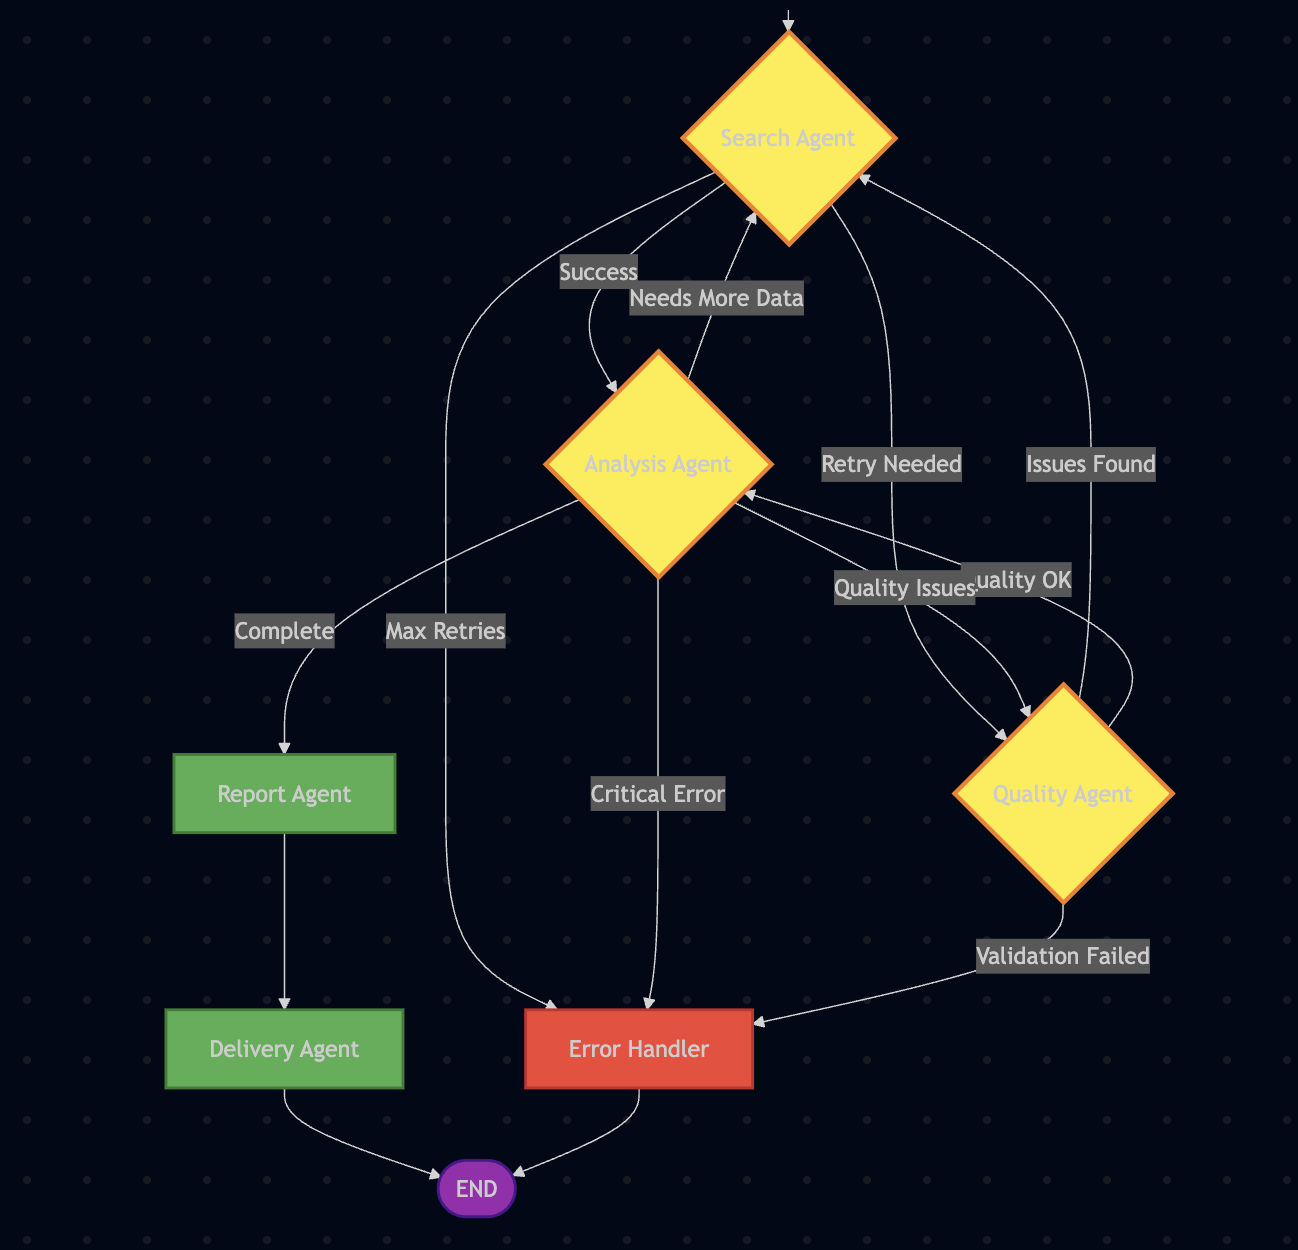
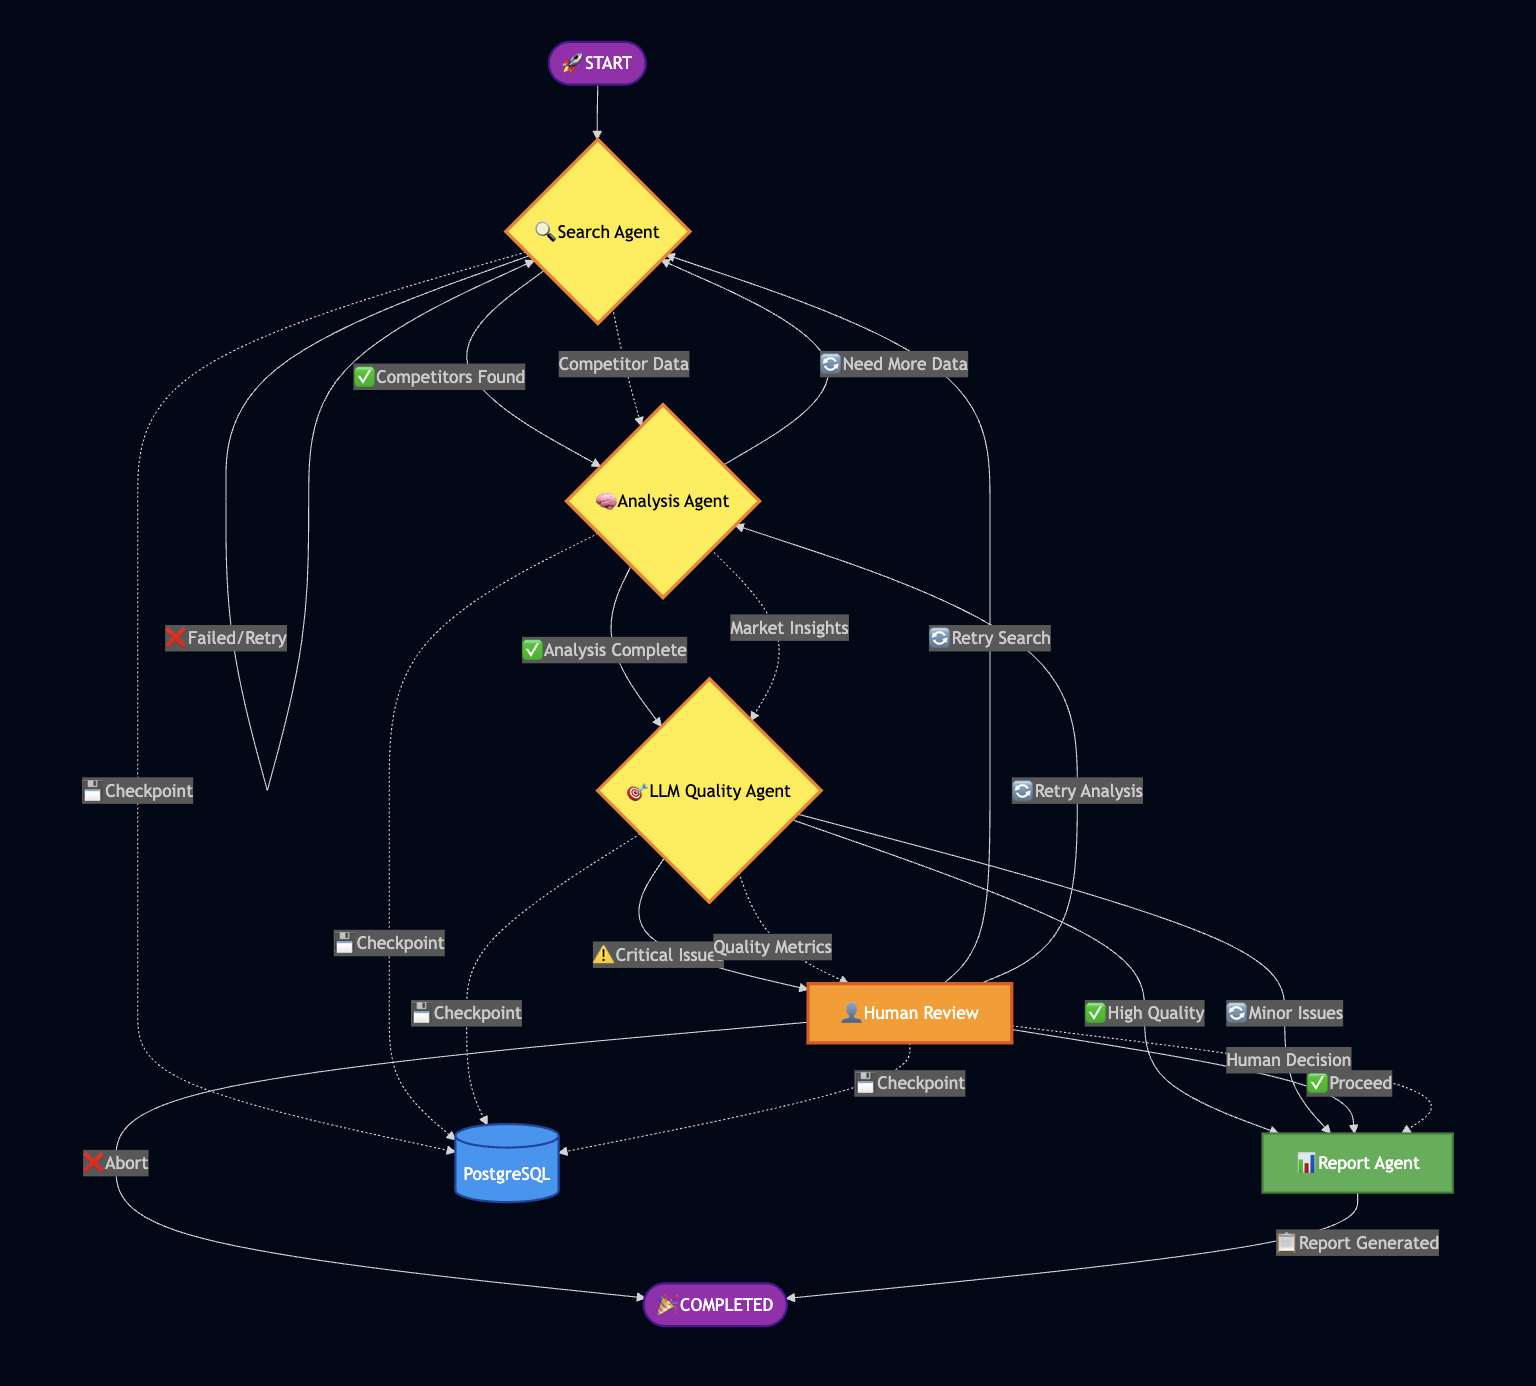
improved documentation

diff --git a/HUMAN_REVIEW.md b/HUMAN_REVIEW.md
@@ -1,0 +1,284 @@
+# Human Review System Documentation
+
+## Overview
+
+The Competitor Analysis System includes a sophisticated human review workflow built on LangGraph's persistent interrupts feature. This allows analyses to pause for human decisions and resume exactly where they left off.
+
+## Architecture
+
+### LangGraph Integration
+- **Persistent Checkpoints**: PostgreSQL-backed checkpoints store workflow state
+- **Conditional Routing**: Smart workflow routing based on quality issues
+- **Resumable Interrupts**: Analyses can be paused and resumed without data loss
+
+### Quality-Driven Interrupts
+The system automatically triggers human review when:
+- Critical data quality issues are detected
+- Competitor relevance scores are below threshold
+- Analysis confidence is low
+- Retry limits are reached without success
+
+## Workflow States
+
+### 1. Normal Flow (No Human Review)
+```
+Search → Analysis → Quality Check → Report → Complete
+```
+
+### 2. Human Review Flow
+```
+Search → Analysis → Quality Check → [INTERRUPT] → Human Review → Report → Complete
+```
+
+### 3. Retry Flow (After Human Decision)
+```
+Human Review → [Retry Search] → Search → Analysis → Quality Check → Report → Complete
+                     OR
+Human Review → [Retry Analysis] → Analysis → Quality Check → Report → Complete
+                     OR
+Human Review → [Proceed] → Report → Complete
+```
+
+## API Endpoints
+
+### Get Quality Review Data
+```http
+GET /api/v1/analysis/{request_id}/quality-review
+```
+Returns quality issues requiring human review.
+
+**Response:**
+```json
+{
+  "request_id": "string",
+  "quality_issues": [
+    {
+      "type": "competitor_relevance",
+      "severity": "high",
+      "description": "Competitor X appears irrelevant to client industry",
+      "affected_item": "Competitor X",
+      "confidence": 0.3
+    }
+  ],
+  "quality_summary": {
+    "total_issues": 5,
+    "critical_issues": 2,
+    "average_quality": 0.7,
+    "analysis_completed": true
+  },
+  "available_actions": [
+    {"id": "proceed", "label": "Proceed with current results"},
+    {"id": "retry_search", "label": "Retry search"},
+    {"id": "retry_analysis", "label": "Retry analysis"}
+  ]
+}
+```
+
+### Submit Human Decision
+```http
+POST /api/v1/analysis/{request_id}/human-decision
+```
+
+**Request Body:**
+```json
+{
+  "decision": "proceed|retry_search|retry_analysis|abort",
+  "feedback": "Optional human feedback",
+  "modified_params": {
+    "max_competitors": 5,
+    "industry_focus": "Updated focus"
+  },
+  "selected_issues": ["issue_id_1", "issue_id_2"]
+}
+```
+
+**Response:**
+```json
+{
+  "message": "Decision recorded successfully",
+  "request_id": "string",
+  "decision": "proceed",
+  "workflow_resumed": true
+}
+```
+
+### Check Interrupt Status
+```http
+GET /api/v1/analysis/{request_id}/interrupt-status
+```
+
+**Response:**
+```json
+{
+  "request_id": "string",
+  "is_interrupted": true,
+  "interrupted_before": "human_review",
+  "awaiting_human_review": true,
+  "current_stage": "human_review",
+  "progress": 75,
+  "status": "in_progress"
+}
+```
+
+### Get Quality Issues
+```http
+GET /api/v1/analysis/{request_id}/quality-issues
+```
+Returns detailed quality issues for human review.
+
+## Frontend Integration
+
+### Human Review UI Components
+
+#### 1. Quality Issues Display
+```typescript
+interface QualityIssue {
+  type: 'competitor_relevance' | 'data_quality' | 'analysis_confidence';
+  severity: 'low' | 'medium' | 'high' | 'critical';
+  description: string;
+  affected_item: string;
+  confidence: number;
+  suggestion?: string;
+}
+```
+
+#### 2. Decision Interface
+```typescript
+interface HumanDecision {
+  decision: 'proceed' | 'retry_search' | 'retry_analysis' | 'abort';
+  feedback?: string;
+  modified_params?: Record<string, any>;
+  selected_issues?: string[];
+}
+```
+
+#### 3. Review Dashboard
+- **Quality Score Visualization**: Charts showing quality metrics
+- **Issue Categorization**: Grouped by severity and type
+- **Competitor Relevance**: Visual indicator of relevance scores
+- **Action Buttons**: Clear options for human decisions
+- **Progress Tracking**: Real-time workflow progress
+
+### WebSocket Updates
+The system provides real-time updates via WebSocket:
+```typescript
+// Subscribe to analysis updates
+const ws = new WebSocket(`ws://localhost:8000/ws/analysis/${analysisId}`);
+
+ws.onmessage = (event) => {
+  const update = JSON.parse(event.data);
+  if (update.stage === 'human_review') {
+    // Show human review interface
+    showHumanReviewModal(update.data);
+  }
+};
+```
+
+## Configuration
+
+### Quality Thresholds
+```python
+# In backend/config/quality_config.py
+QUALITY_THRESHOLDS = {
+    'competitor_relevance': 0.7,
+    'data_completeness': 0.8,
+    'analysis_confidence': 0.6,
+    'market_data_freshness': 0.9
+}
+
+HUMAN_REVIEW_TRIGGERS = {
+    'critical_issues_count': 2,
+    'low_quality_percentage': 0.4,
+    'retry_limit_reached': True
+}
+```
+
+## Error Handling
+
+### Common Issues and Solutions
+
+#### 1. Checkpoint Not Found
+- **Issue**: Analysis state lost, cannot resume workflow
+- **Solution**: Fallback to database state, notify user of potential data loss
+
+#### 2. Human Review Timeout
+- **Issue**: Analysis waiting for human decision too long
+- **Solution**: Auto-proceed after configurable timeout (default: 24 hours)
+
+#### 3. Invalid Human Decision
+- **Issue**: Decision doesn't match available options
+- **Solution**: Return error with valid options, maintain workflow state
+
+## Testing
+
+### Manual Testing
+1. Start analysis with low-quality competitor data
+2. Wait for human review interrupt
+3. Check quality review endpoint
+4. Submit various decisions (proceed, retry, abort)
+5. Verify workflow resumes correctly
+
+### Automated Testing
+```python
+async def test_human_review_workflow():
+    # Start analysis with known quality issues
+    analysis_id = await start_analysis_with_quality_issues()
+
+    # Wait for human review interrupt
+    status = await wait_for_interrupt(analysis_id)
+    assert status['awaiting_human_review'] == True
+
+    # Get quality review data
+    review = await get_quality_review(analysis_id)
+    assert len(review['quality_issues']) > 0
+
+    # Submit human decision
+    decision = {"decision": "proceed", "feedback": "Test feedback"}
+    result = await submit_human_decision(analysis_id, decision)
+    assert result['workflow_resumed'] == True
+
+    # Wait for completion
+    final_status = await wait_for_completion(analysis_id)
+    assert final_status['status'] == 'completed'
+```
+
+## Best Practices
+
+### For Developers
+1. **Always check interrupt status** before resuming workflows
+2. **Handle network failures** gracefully during human review
+3. **Validate human decisions** before processing
+4. **Log all human interactions** for audit trail
+
+### For Users
+1. **Review quality issues carefully** before making decisions
+2. **Provide meaningful feedback** to improve future analyses
+3. **Don't leave analyses in review state** for extended periods
+4. **Understand retry implications** on analysis cost and time
+
+## Monitoring
+
+### Key Metrics
+- Human review trigger rate
+- Average review time
+- Decision distribution (proceed vs retry)
+- Quality improvement after retries
+- Abandoned reviews (timeout rate)
+
+### Logging
+All human review interactions are logged with:
+- Timestamp
+- User ID (if available)
+- Decision made
+- Quality issues present
+- Feedback provided
+- Workflow outcome
+
+## Future Enhancements
+
+### Planned Features
+1. **Multi-user Review**: Support for team-based review decisions
+2. **Review Templates**: Pre-defined decision templates for common scenarios
+3. **ML-Assisted Decisions**: AI suggestions for human review decisions
+4. **Batch Review**: Review multiple analyses simultaneously
+5. **Review Analytics**: Advanced analytics on review patterns and outcomes

diff --git a/README.md b/README.md
@@ -147,11 +147,6 @@ Create `backend/.env` with the following configuration:
 OPENAI_API_KEY=your_openai_api_key_here
 TAVILY_API_KEY=your_tavily_api_key_here
 
-# Database Configuration
-MONGODB_URI=mongodb://admin:admin123@localhost:27017/competitor_analysis?authSource=admin
-REDIS_HOST=localhost
-REDIS_PORT=6379
-
 # Application Settings
 ENVIRONMENT=development
 LOG_LEVEL=info
@@ -251,16 +246,24 @@ make redis-cli     # Redis CLI
 
 ## 🔄 Workflow
 
-![How It Works](docs/how_it_work.png)
+![LangGraph Workflow](docs/graph_mermaid.png)
 
-1. **Client Onboarding** - Define objectives and scope
-2. **Competitor Discovery** - AI identifies relevant competitors
-3. **Data Collection** - Parallel gathering from multiple sources
-4. **Data Validation** - Quality checks and verification
-5. **Analysis** - Multiple analytical frameworks applied
-6. **Insight Generation** - Synthesis and recommendations
-7. **Report Delivery** - Custom reports and dashboards
-8. **Continuous Monitoring** - Ongoing tracking (optional)
+**Actual LangGraph Implementation:**
+
+1. **Search Phase** - Tavily-powered competitor discovery and data collection with intelligent filtering
+2. **Analysis Phase** - Azure OpenAI competitive analysis with SWOT, positioning, and data enrichment
+3. **Quality Assurance** - LLM-powered data validation and relevance verification
+4. **Human Review** - Optional interruption point for quality issues requiring human decision
+5. **Report Generation** - Automated report synthesis with market insights and recommendations
+6. **Completion** - Analysis marked complete with persistent checkpoint storage
+
+**Key Features:**
+- **Persistent Interrupts**: LangGraph checkpoints enable human review workflows that can resume exactly where they left off
+- **Conditional Routing**: Smart workflow routing based on data quality and analysis confidence
+- **Error Recovery**: Built-in retry mechanisms and fallback strategies
+- **Real-time Updates**: WebSocket progress tracking throughout the workflow
+
+![How It Works](docs/how_it_work.png)
 
 ## 📈 Performance Metrics
 - Analysis completion: < 4 hours
